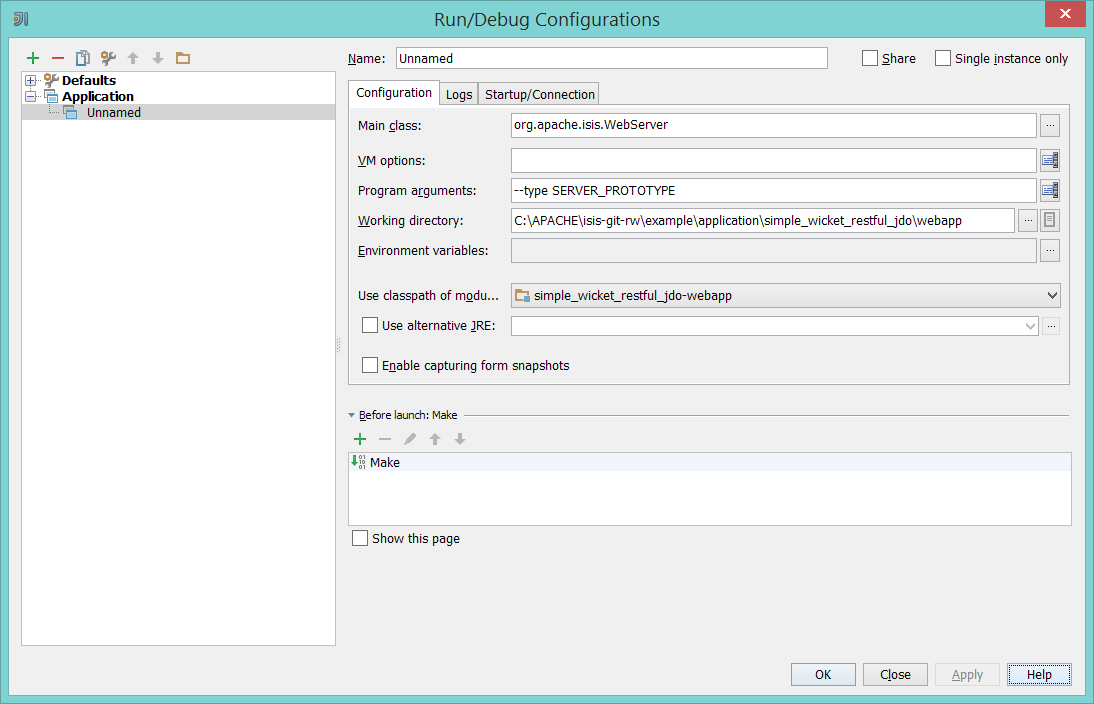
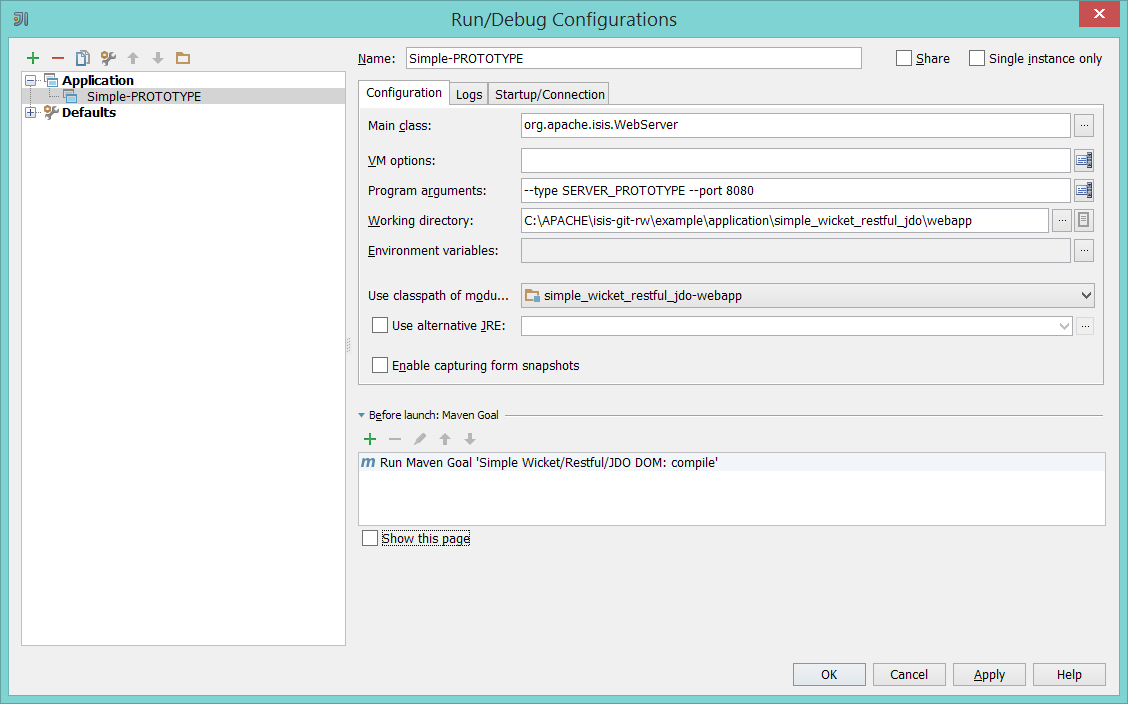
intellij etc
git-svn-id: https://svn.apache.org/repos/asf/isis/site/trunk@1581095 13f79535-47bb-0310-9956-ffa450edef68

diff --git a/content/other/jrebel.md b/content/other/jrebel.md
@@ -16,16 +16,19 @@ This page describes how to use the JRebel with:
 
 The Isis JRebel plugin itself is free for use, and is hosted on [github](https://github.com/danhaywood/isis-jrebel-plugin).  However, JRebel itself is commercial software.  There is though  a community version that is [free for open source use](https://my.jrebel.com/).   Please check terms and conditions before using.
 
+> Note that Isis must be run in prototype mode to automatically pick up changes.
 
-## <a name="screencast"></a>Screencasts
+## Prerequisites
 
-The following screencasts show how to develop your app without having to redeploy using a JRebel plugin.
+There are two prerequisites:
+* first, you'll need to download the JRebel JAR (or install the plugins into the IDE) and set up a license
+* second, you'll need to build/download the Isis JRebel plugin.  Do this by cloning the [github repo]((https://github.com/danhaywood/isis-jrebel-plugin)), and building using maven.
 
-#### Using Maven with JRebel (1.4.2-snapshot)
+## <a name="maven"><a name="screencast">Using Maven with JRebel (1.4.2-snapshot)</a></a>
 
 This screencast shows how to use Maven in conjunction with JRebel:
 
-<iframe width="640" height="354" src="//www.youtube.com/embed/jpYNZ343gi4" frameborder="0" allowfullscreen></iframe>
+<iframe width="640" height="360" src="//www.youtube.com/embed/jpYNZ343gi4" frameborder="0" allowfullscreen></iframe>
 
 The command used to run the webapp is:
 
@@ -33,20 +36,33 @@ The command used to run the webapp is:
         -Djrebel.jar="C:/Users/Dan/.IdeaIC13/config/plugins/jr-ide-idea/lib/jrebel/jrebel.jar" \
         -Disis_jrebel_plugin.jar="C:/github/danhaywood/isis-jrebel-plugin/target/danhaywood-isis-jrebel-plugin-1.0.0-SNAPSHOT.jar"
 
-Change the values of `rebel.jar` and `isis_jrebel_plugin.jar` as necessary.
+Change the values of `rebel.jar` and `isis_jrebel_plugin.jar` as necessary:
+* the `rebel.jar` property is the location of the JRebel jar file.  You can either download this or (as the above example shows) simply use the embedded JRebel from an IDE
+* the `isis_jrebel_plugin.jar` property points to the Isis plugin JAR that you built previously
+* `isis-jrebel-plugin.packagePrefix` for the prefix of the application (eg `com.mycompany.myapp.dom`)
 
-#### Using Eclipse with JRebel
+## <a name="eclipse">Using Eclipse with JRebel</a>
+
+> Remember to install the JRebel plugin for Eclipse from the Eclipse Marketplace (Help > Eclipse Marketplace), and set up a license.
 
 This screencast shows how to use Maven in conjunction with Eclipse:
 
-<iframe width="640" height="354" src="//www.youtube.com/embed/uPfRXllQV1o" frameborder="0" allowfullscreen></iframe>
+<iframe width="640" height="360" src="//www.youtube.com/embed/uPfRXllQV1o" frameborder="0" allowfullscreen></iframe>
 
-#### Using IntelliJ with JRebel
+The archetypes already include a `.launch` file for JRebel.  AS the screencast showed, you will need to adjust some settings:
+* `isis-jrebel-plugin.packagePrefix` for the prefix of the application (eg `com.mycompany.myapp.dom`)
+* `rebel.plugins` for the location of the Isis plugin JAR (from the github repo)
+
+
+## <a name="intellij>Using IntelliJ with JRebel</a>
+
+>  Remember to installed the JRebel plugin for IntelliJ (File > Settings > Plugins), and set up a license.
 
 This screencast shows how to use Maven in conjunction with IntelliJ:
 
-> TODO
+<iframe width="640" height="360" src="//www.youtube.com/embed/XXX" frameborder="0" allowfullscreen></iframe>
 
+> This screencast follows on from the one that explains [how to setup IntelliJ](../../intro/getting-started/ide/intellij.html#screencast) as your IDE.
 
 These screenshots show the VM arguments as configured in IntelliJ:
 
@@ -69,20 +85,9 @@ If you want to copy-n-paste those VM args, they are:
     -XX:MaxPermSize=128m
 
 You'll need to adjust the value of some of these:
-* `rebel.plugins` for the location of the plugin JAR
-* `project.root` for the root directory of the application
+* `rebel.plugins` for the location of the Isis plugin JAR (from the github repo)
 * `isis-jrebel-plugin.packagePrefix` for the prefix of the application (eg `com.mycompany.myapp.dom`)
+* `project.root` for the root directory of the application
     
 You can probably leave the other properties as is.
 
-
-## Download
-
-The plugin can be downloaded from [github](https://github.com/danhaywood/isis-jrebel-plugin).
-
-
-## Usage
-
-The README on the github page how to set up the plugin.
-
-One final note: you do need to run Isis in prototype mode to automatically pick up changes.

diff --git a/content/intro/getting-started/ide/intellij.md b/content/intro/getting-started/ide/intellij.md
@@ -6,30 +6,56 @@ Title: Setting up the IntelliJ IDE
 > * setting up [IntelliJ and JRebel](../../../other/jrebel.html).  
 > 
 
-We highly recommend that you develop your Isis application using an IDE.  Isis is built with Maven, and all modern IDEs can import Maven projects.
+We highly recommend that you develop your Isis application using an IDE.  Isis is built with Maven, and all modern IDEs can import Maven projects.  One of the most popular IDEs is [IntelliJ](http://jetbrains.com/intellij), offering either a paid-for "Ultimate" edition or a free-to-use Community edition.  Either will do for Isis development.
 
-If using the [JDO Objectstore](../../../components/objectstores/jdo/about.html) (the default if using the [simple](../simple-archetype.html) or [quickstart](../quickstart-archetype.html) archetypes), then the development environment must be configured such that the Java bytecode can be enhanced by a [JDO enhancer](http://db.apache.org/jdo/enhancement.html).
-
-If working in IntelliJ, then JDO enhancement is most easily done by leveraging the Maven configuration.
+If using the [JDO Objectstore](../../../components/objectstores/jdo/about.html) (the default if using the [simple](../simple-archetype.html) or [quickstart](../quickstart-archetype.html) archetypes), then the development environment must be configured such that the Java bytecode can be enhanced by a [JDO enhancer](http://db.apache.org/jdo/enhancement.html).  When working in IntelliJ, then JDO enhancement is most easily done by leveraging the Maven configuration.  We do this by executing the `mvn compile` goal in the dom project, prior to running the application.
 
 The steps are therefore:
 
-* import the project into Eclipse
+* import the project into IntelliJ
 * setting up a run/debug configuration to run the app
 
 ## <a name="screencast"></a>Screencasts
 
-TODO
+This screencast shows how to import an Isis app into IntelliJ, and then how to setup the run/debug configuration to run the app:
+
+<iframe width="640" height="360" src="//www.youtube.com/embed/lwKsyTbTSnA" frameborder="0" allowfullscreen></iframe>
+
+If you are a [JRebel](http://zeroturnaround.com/software/jrebel/) user, then do also look at [how to configure IntelliJ with JRebel](../../../other/jrebel.html#intellij).
 
 ## Importing the Code into IntelliJ
 
+Importing the Isis as a Maven app is straightforward:
+
 <img src="images/intellij-010-import.png"  width="600px"/>
+
+and then:
 
 <img src="images/intellij-020-maven.png"  width="600px"/>
 
 
 ## Setting up a Run/Debug Configuration
 
+The screenshot below shows how to setup the run/debug configuration:
 
 <img src="images/intellij-030-run-configuration.png"  width="600px"/>
 
+That is:
+
+* Main Class: `org.apache.isis.WebServer`
+* VM options: (leave blank)
+* Program arguments: `--type SERVER_PROTOTYPE --port 8080`
+* Environment variables: (leave blank)
+* Use classpath of module: (the `webapp` module)
+
+See [here](../../../reference/deployment-type.html) for other deployment types (the `--type` argument).
+
+Then - importantly - for the `Before launch` setting, first remove the default "Make" entry, and then add a new Maven goal:
+
+<img src="images/intellij-040-run-configuration.png"  width="350px"/>
+
+to execute `mvn compile` for the `dom` modue:
+
+<img src="images/intellij-040-run-configuration.png"  width="400px"/>
+  
+Running `mvn compile` (rather than IntellJ's regular make) will ensure that the domain object classes are enhanced by the DataNucleus enhancer.

diff --git a/content/intro/getting-started/ide/eclipse.md b/content/intro/getting-started/ide/eclipse.md
@@ -6,23 +6,21 @@ Title: Setting up Eclipse (with JDO/DataNucleus)
 > * setting up [Eclipse and JRebel](../../../other/jrebel.html).  
 > 
 
-We highly recommend that you develop your Isis application using an IDE.  Isis is built with Maven, and all modern IDEs can import Maven projects.
+We highly recommend that you develop your Isis application using an IDE.  Isis is built with Maven, and all modern IDEs can import Maven projects.  The most commonly used IDE is [Eclipse](http://www.eclipse.org), which can be downloaded in various configurations, all of which are free for use.  We recommend you download the "Eclipse JEE package".
 
-If using the [JDO Objectstore](../../../components/objectstores/jdo/about.html) (the default if using the [simple](../simple-archetype.html) or [quickstart](../quickstart-archetype.html) archetypes), then the development environment must be configured such that the Java bytecode can be enhanced by a [JDO enhancer](http://db.apache.org/jdo/enhancement.html).
-
-If working in Eclipse, then JDO enhancement is most easily done by installing [DataNucleus' plugin](http://www.datanucleus.org/plugins/ide.eclipse.html).  This hooks the bytecode enhancement of your domain objects into Eclipse's normal incremental compilation.  This plugin needs to be configured for each of your domain modules (usually just one in any given app).
+If using the [JDO Objectstore](../../../components/objectstores/jdo/about.html) (the default if using the [simple](../simple-archetype.html) or [quickstart](../quickstart-archetype.html) archetypes), then the development environment must be configured such that the Java bytecode can be enhanced by a [JDO enhancer](http://db.apache.org/jdo/enhancement.html).  If working in Eclipse, then JDO enhancement is most easily done by installing [DataNucleus' plugin](http://www.datanucleus.org/plugins/ide.eclipse.html).  This hooks the bytecode enhancement of your domain objects into Eclipse's normal incremental compilation.  This plugin needs to be configured for each of your domain modules (usually just one in any given app).
 
 The steps are therefore:
 
 * import the project into Eclipse
 * configure the DataNucleus enhancer
-* running the app from the `.launch` file
+* run the app from the `.launch` file
 
 ## <a name="screencast"></a>Screencast
 
 The following screencast shows how import an Apache Isis maven-based application into Eclipse and configure to use with the JDO Objectstore
 
-<iframe width="420" height="315" src="http://www.youtube.com/embed/RgcYfjQ8yJA" frameborder="0" allowfullscreen></iframe>
+<iframe width="640" height="480" src="http://www.youtube.com/embed/RgcYfjQ8yJA" frameborder="0" allowfullscreen></iframe>
 
 
 ## Importing the Project

diff --git a/content/intro/tutorials/screencasts.md b/content/intro/tutorials/screencasts.md
@@ -59,7 +59,7 @@ We've prepared some screencasts to help you quickly see what Apache Isis has to 
     Learn more <a href="../getting-started/ide/intellij.html#screencast">here</a>
     </td>
     <td>
-      TODO
+      <iframe width="420" height="315" src="http://www.youtube.com/embed/lwKsyTbTSnA" frameborder="0" allowfullscreen></iframe>
     </td>
   </tr>
 
@@ -161,7 +161,7 @@ We've prepared some screencasts to help you quickly see what Apache Isis has to 
     See also <a href="../../other/jrebel.html#screencast">here</a>
     </td>
     <td>
-      TODO
+      <iframe width="420" height="236" src="//www.youtube.com/embed/XXX" frameborder="0" allowfullscreen></iframe>
     </td>
   </tr>
 <table>
